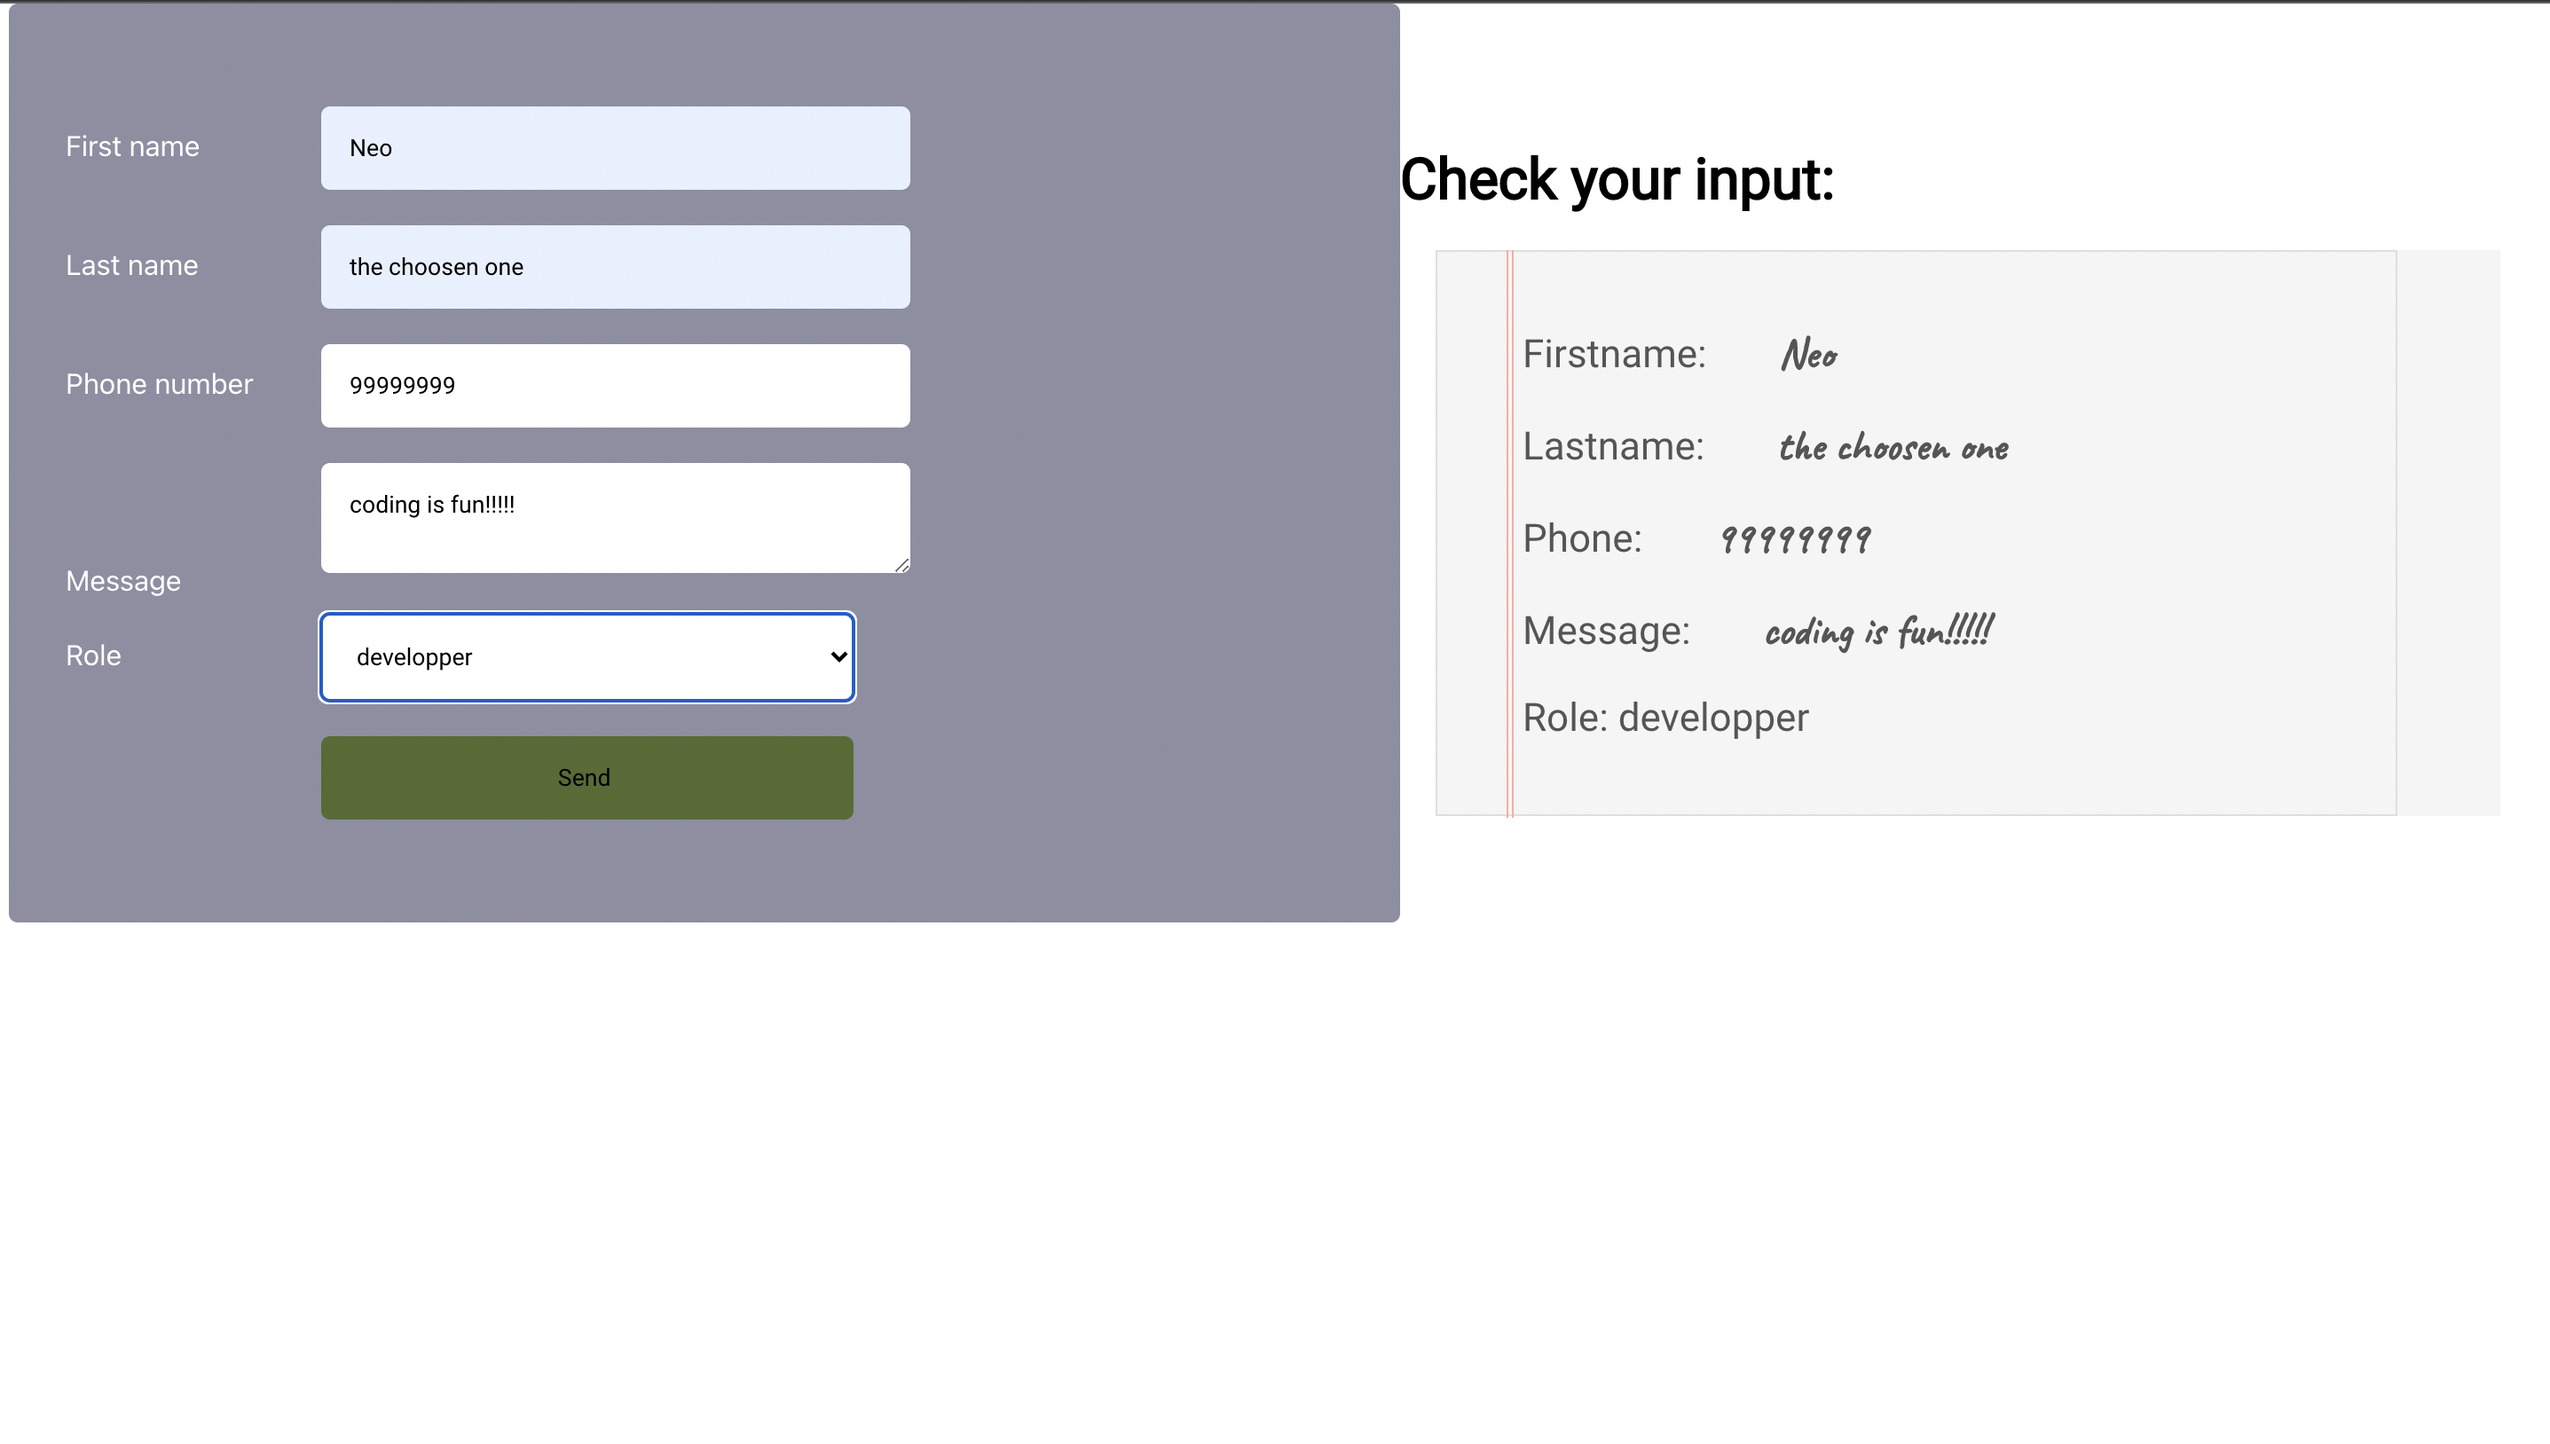
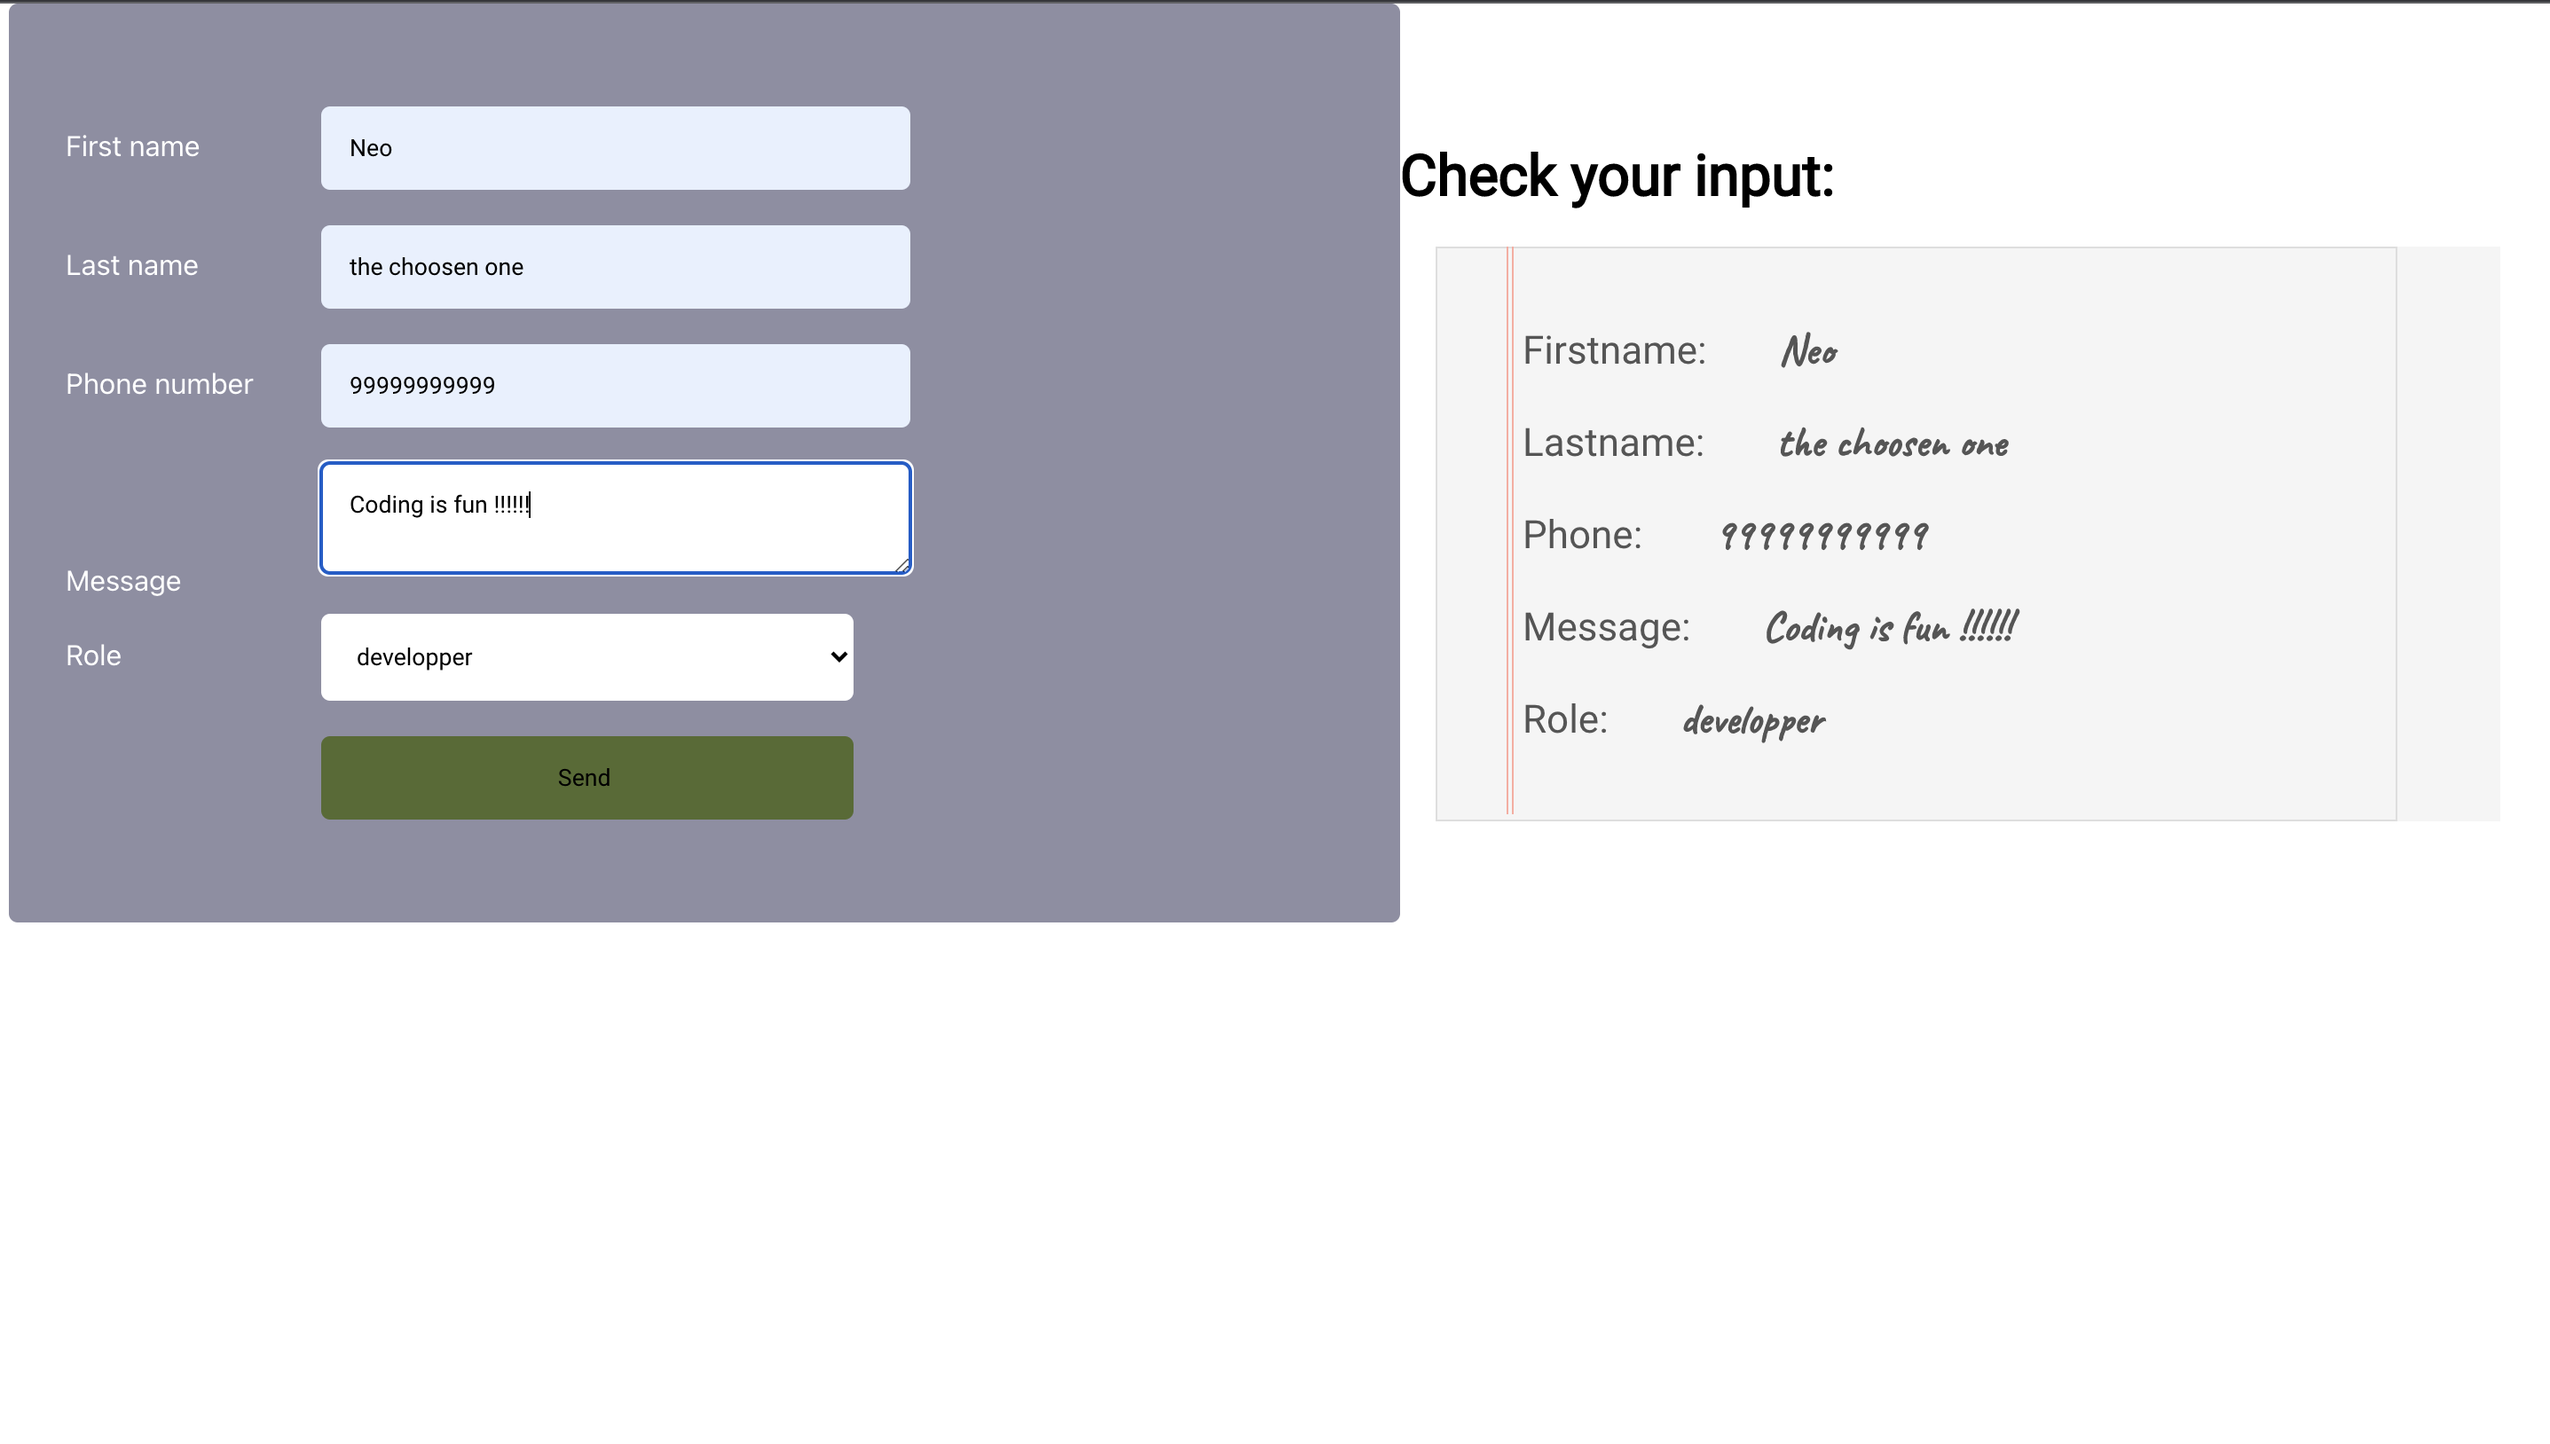
updating the styling and the screenshot  to readme

diff --git a/src/components/View.js b/src/components/View.js
@@ -19,7 +19,9 @@ const View = (props) => {
           <p>
             Message: <span>{props.message}</span>
           </p>
-          <p>Role: {props.role}</p>
+          <p>
+            Role: <span>{props.role}</span>
+          </p>
         </div>
       </div>
     </div>
